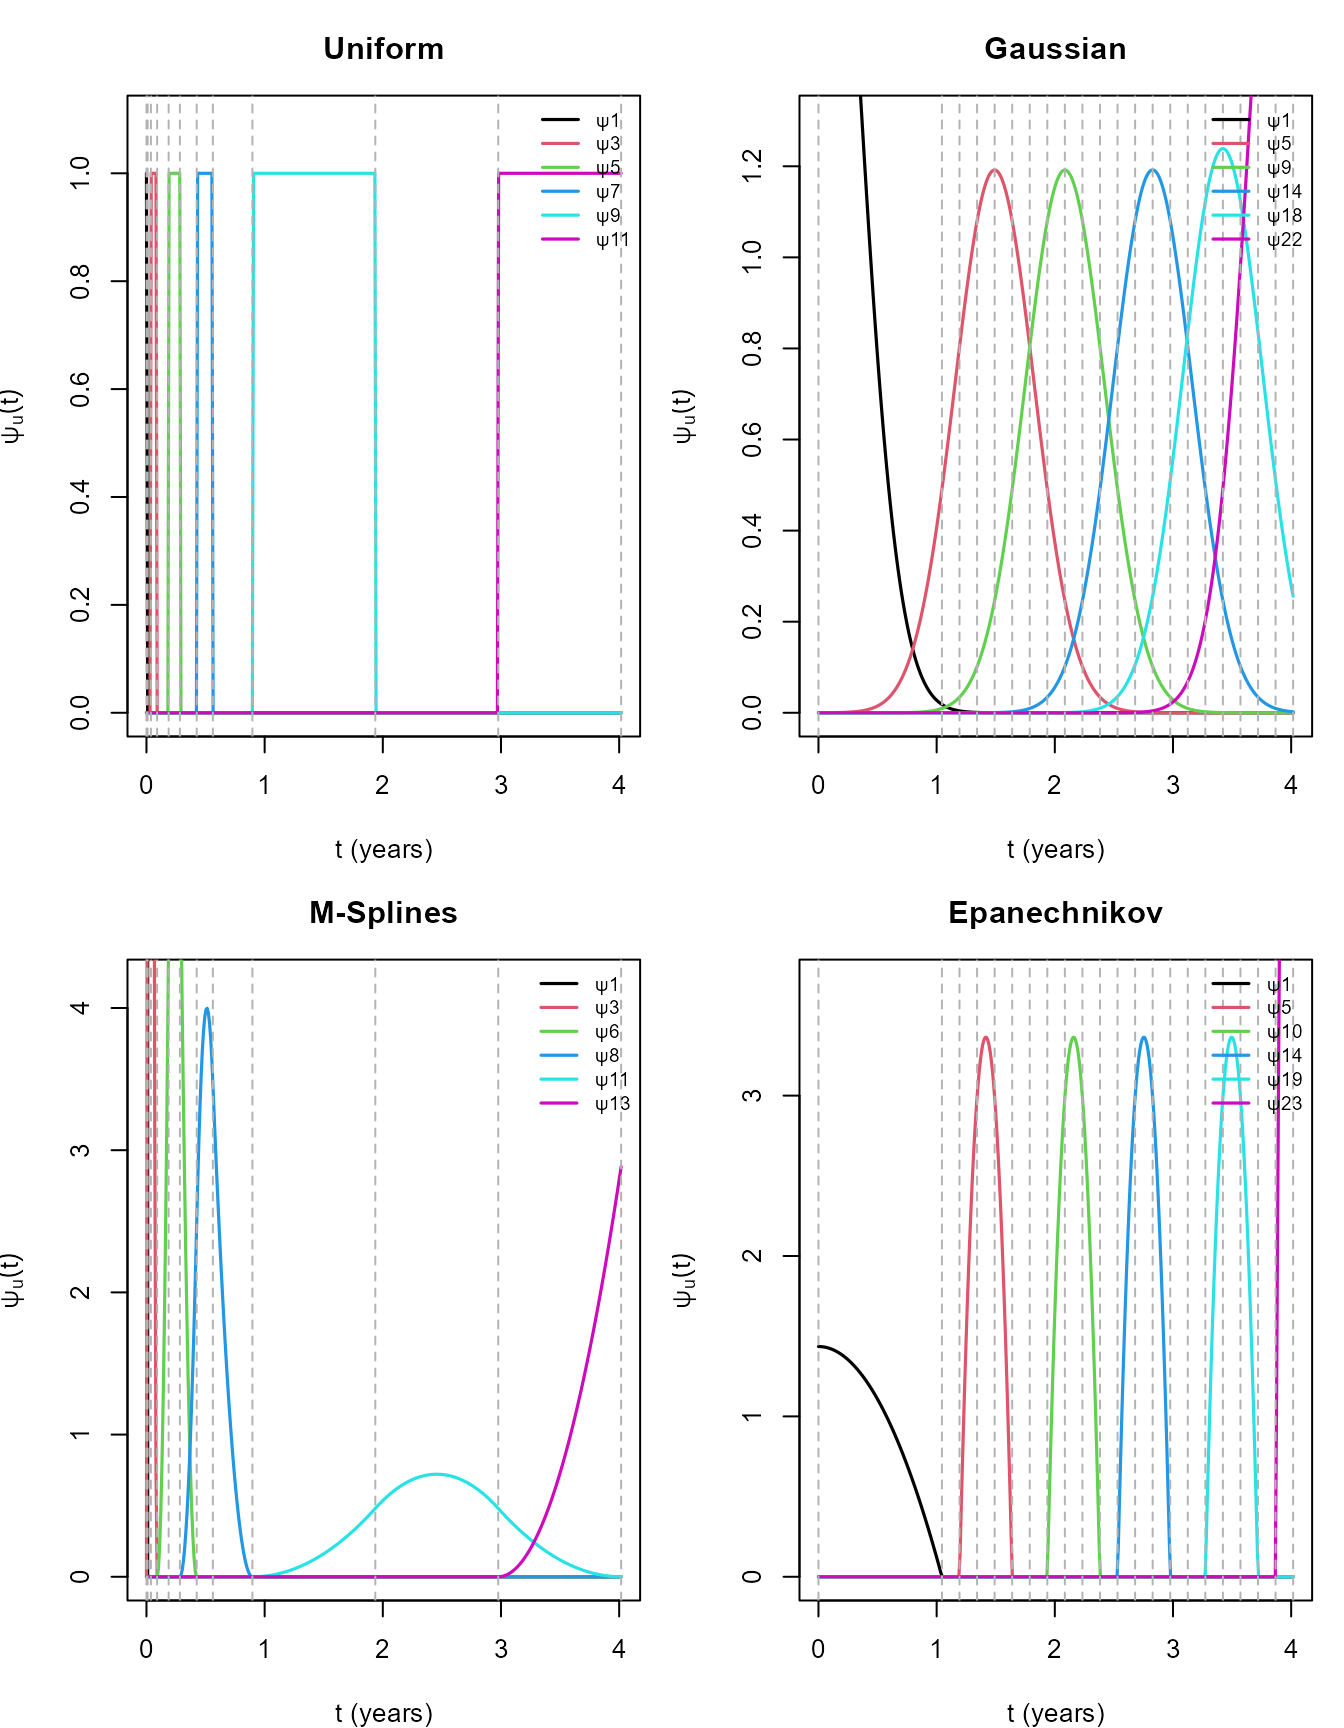
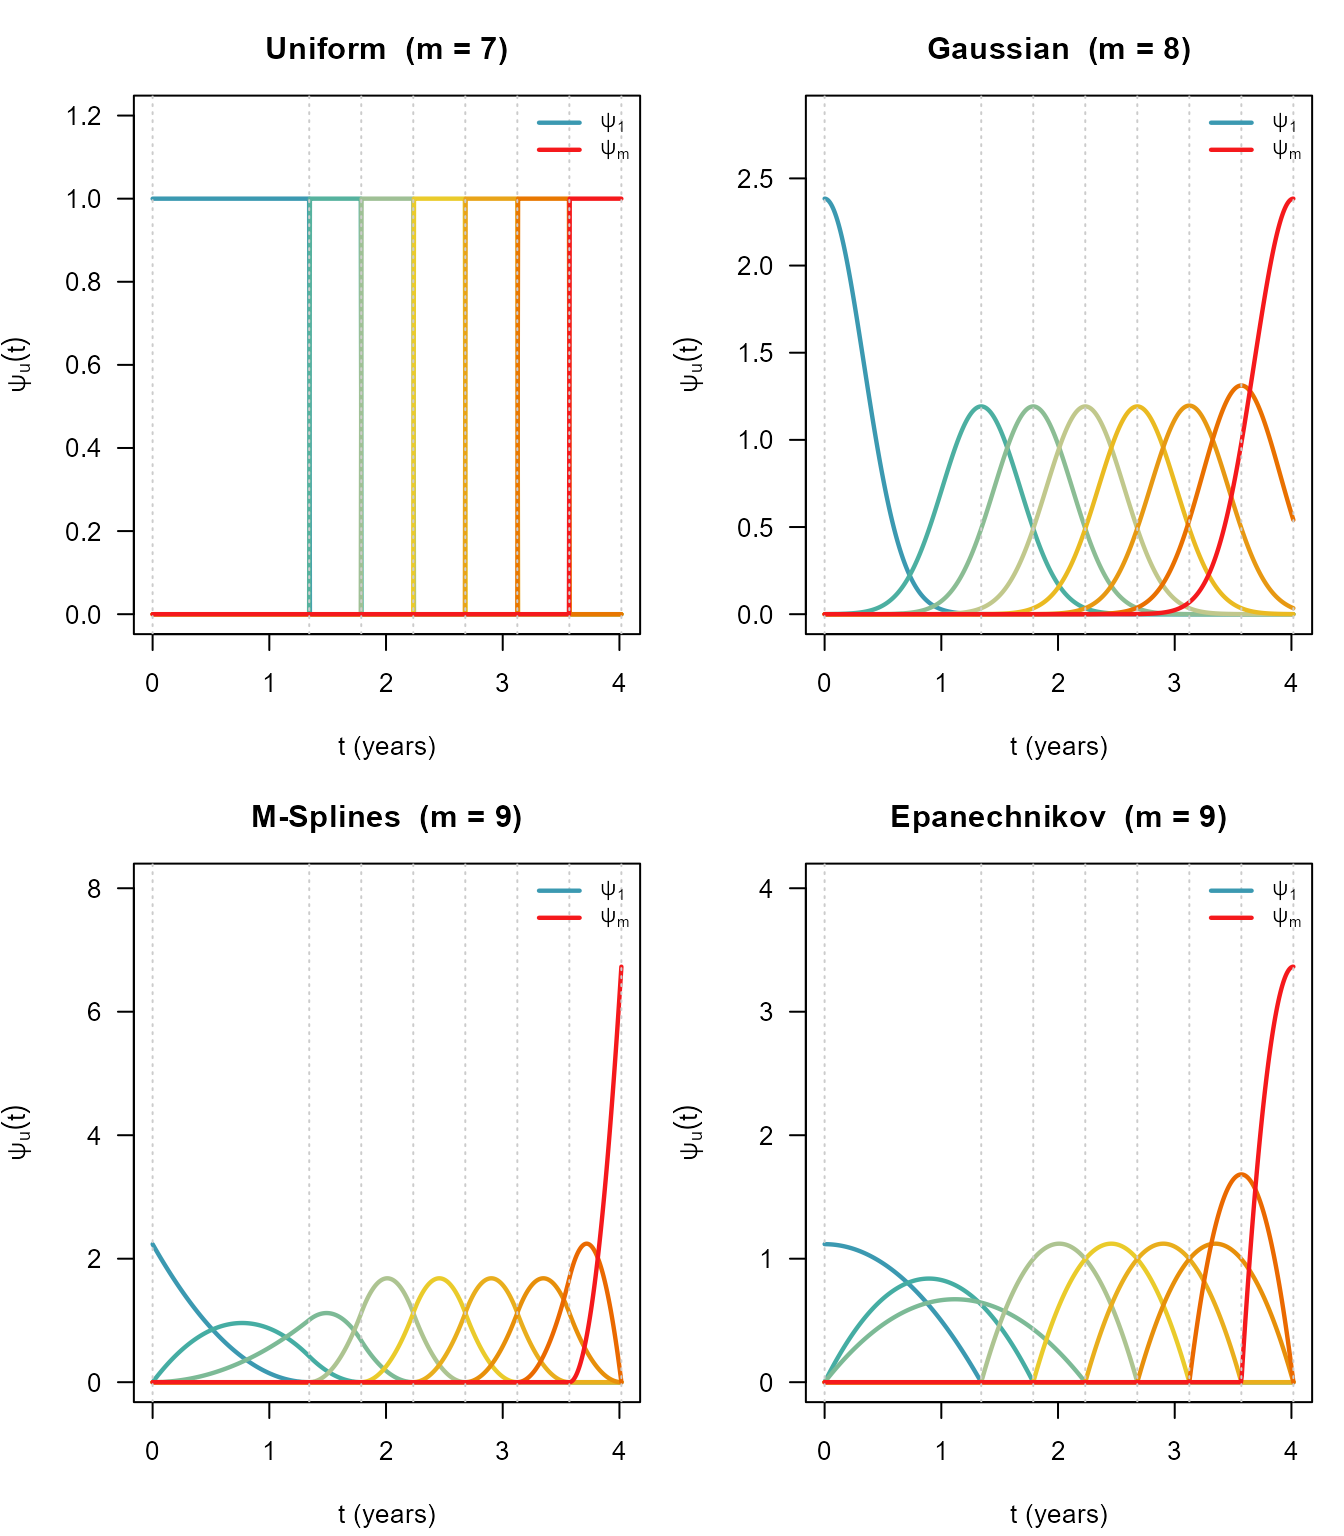
Minor changes in basis comparison

diff --git a/docs/articles/basis-comparison.html b/docs/articles/basis-comparison.html
@@ -253,8 +253,39 @@ support. Like M-splines, these use the augmented knot sequence
 evaluate
 <math display="inline" xmlns="http://www.w3.org/1998/Math/MathML"><semantics><mrow><msub><mi>ψ</mi><mi>u</mi></msub><mo stretchy="false" form="prefix">(</mo><mi>t</mi><mo stretchy="false" form="postfix">)</mo></mrow><annotation encoding="application/x-tex">\psi_u(t)</annotation></semantics></math>
 on a fine grid and plot each set of basis functions.</p>
+<p><code>n.knots = c(k_1, k_2)</code> places
+<math display="inline" xmlns="http://www.w3.org/1998/Math/MathML"><semantics><mrow><msub><mi>k</mi><mn>1</mn></msub><mo>+</mo><mn>1</mn></mrow><annotation encoding="application/x-tex">k_1 + 1</annotation></semantics></math>
+quantile-based knots over the lower <code>range.quant[2]</code> (90% by
+default) of the event times, plus
+<math display="inline" xmlns="http://www.w3.org/1998/Math/MathML"><semantics><mrow><msub><mi>k</mi><mn>2</mn></msub><mo>+</mo><mn>1</mn></mrow><annotation encoding="application/x-tex">k_2 + 1</annotation></semantics></math>
+equally spaced knots above that quantile —
+<math display="inline" xmlns="http://www.w3.org/1998/Math/MathML"><semantics><mrow><msub><mi>k</mi><mn>1</mn></msub><mo>+</mo><msub><mi>k</mi><mn>2</mn></msub><mo>+</mo><mn>2</mn></mrow><annotation encoding="application/x-tex">k_1 + k_2 + 2</annotation></semantics></math>
+knots in total. The defaults are <code>c(8, 2)</code> for
+<code>"uniform"</code> and <code>"msplines"</code> (12 knots,
+<math display="inline" xmlns="http://www.w3.org/1998/Math/MathML"><semantics><mrow><mi>m</mi><mo>=</mo><mn>11</mn></mrow><annotation encoding="application/x-tex">m = 11</annotation></semantics></math>
+and
+<math display="inline" xmlns="http://www.w3.org/1998/Math/MathML"><semantics><mn>13</mn><annotation encoding="application/x-tex">13</annotation></semantics></math>)
+and <code>c(0, 20)</code> for <code>"gaussian"</code> and
+<code>"epanechikov"</code> (22 knots,
+<math display="inline" xmlns="http://www.w3.org/1998/Math/MathML"><semantics><mrow><mi>m</mi><mo>=</mo><mn>22</mn></mrow><annotation encoding="application/x-tex">m = 22</annotation></semantics></math>
+and
+<math display="inline" xmlns="http://www.w3.org/1998/Math/MathML"><semantics><mn>23</mn><annotation encoding="application/x-tex">23</annotation></semantics></math>).</p>
+<p>The figure below deliberately uses far fewer:
+<code>n.knots = c(0, 6)</code>, i.e. 8 widely spaced knots and
+<math display="inline" xmlns="http://www.w3.org/1998/Math/MathML"><semantics><mrow><mi>m</mi><mo>=</mo><mn>7</mn></mrow><annotation encoding="application/x-tex">m = 7</annotation></semantics></math>–<math display="inline" xmlns="http://www.w3.org/1998/Math/MathML"><semantics><mn>9</mn><annotation encoding="application/x-tex">9</annotation></semantics></math>
+basis functions per panel. At the default resolution the curves overlap
+into a dense, unreadable thicket, and on this right-skewed dataset the
+quantile knots crowd so tightly near
+<math display="inline" xmlns="http://www.w3.org/1998/Math/MathML"><semantics><mrow><mi>t</mi><mo>=</mo><mn>0</mn></mrow><annotation encoding="application/x-tex">t = 0</annotation></semantics></math>
+that the first basis function spikes and flattens all the others. Fewer
+knots do not change the shape of an individual basis function — only how
+many there are and how wide each one is.</p>
 <p><img src="basis-comparison_files/figure-html/basis-vis-1.png" class="r-plt" alt="" width="100%" style="display: block; margin: auto;"></p>
-<p>Dashed vertical lines mark the internal knots
+<p>Colour runs with the basis index —
+<math display="inline" xmlns="http://www.w3.org/1998/Math/MathML"><semantics><msub><mi>ψ</mi><mn>1</mn></msub><annotation encoding="application/x-tex">\psi_1</annotation></semantics></math>
+(blue) is left-most in time,
+<math display="inline" xmlns="http://www.w3.org/1998/Math/MathML"><semantics><msub><mi>ψ</mi><mi>m</mi></msub><annotation encoding="application/x-tex">\psi_m</annotation></semantics></math>
+(red) right-most. Dotted vertical lines mark the knots
 <math display="inline" xmlns="http://www.w3.org/1998/Math/MathML"><semantics><mi mathvariant="bold-italic">𝜶</mi><annotation encoding="application/x-tex">\boldsymbol{\alpha}</annotation></semantics></math>.</p>
 <hr>
 </div>
@@ -269,13 +300,21 @@ recurrence,
 <math display="inline" xmlns="http://www.w3.org/1998/Math/MathML"><semantics><mrow><mi>n</mi><mo>=</mo><mn>300</mn></mrow><annotation encoding="application/x-tex">n = 300</annotation></semantics></math>,
 true baseline
 <math display="inline" xmlns="http://www.w3.org/1998/Math/MathML"><semantics><mrow><msub><mi>h</mi><mn>0</mn></msub><mo stretchy="false" form="prefix">(</mo><mi>t</mi><mo stretchy="false" form="postfix">)</mo><mo>=</mo><msup><mi>t</mi><mrow><mi>−</mi><mn>1</mn><mi>/</mi><mn>2</mn></mrow></msup></mrow><annotation encoding="application/x-tex">h_0(t) = t^{-1/2}</annotation></semantics></math>).</p>
+<p>All four fits share the same knot specification,
+<code>n.knots = c(8, 2)</code>, so that the comparison is between
+<em>basis shapes</em> and not between different numbers of parameters.
+(The defaults differ by basis: <code>"uniform"</code> and
+<code>"msplines"</code> use <code>c(8, 2)</code>, while
+<code>"gaussian"</code> and <code>"epanechikov"</code> use
+<code>c(0, 20)</code>.)</p>
 <div class="sourceCode" id="cb1"><pre class="downlit sourceCode r">
 <code class="sourceCode R"><span><span class="fu"><a href="https://rdrr.io/r/utils/data.html" class="external-link">data</a></span><span class="op">(</span><span class="va">melanoma</span><span class="op">)</span></span>
-<span><span class="va">formula_mel</span> <span class="op">&lt;-</span> <span class="fu"><a href="https://rdrr.io/pkg/survival/man/Surv.html" class="external-link">Surv</a></span><span class="op">(</span><span class="va">t_L</span>, <span class="va">t_R</span>, type <span class="op">=</span> <span class="st">"interval2"</span><span class="op">)</span> <span class="op">~</span></span>
+<span><span class="va">formula_mel</span> <span class="op">&lt;-</span> <span class="fu">Surv</span><span class="op">(</span><span class="va">t_L</span>, <span class="va">t_R</span>, type <span class="op">=</span> <span class="st">"interval2"</span><span class="op">)</span> <span class="op">~</span></span>
 <span>  <span class="va">Arm</span> <span class="op">+</span> <span class="va">Leg</span> <span class="op">+</span> <span class="va">Trunk</span> <span class="op">+</span> <span class="va">mm1to2</span> <span class="op">+</span> <span class="va">mm2to4</span> <span class="op">+</span> <span class="va">mm4plus</span> <span class="op">+</span> <span class="va">Female</span> <span class="op">+</span> <span class="va">Age_centred</span></span>
 <span><span class="va">n_obs</span> <span class="op">&lt;-</span> <span class="fu"><a href="https://rdrr.io/r/base/sum.html" class="external-link">sum</a></span><span class="op">(</span><span class="va">melanoma</span><span class="op">$</span><span class="va">t_L</span> <span class="op">==</span> <span class="va">melanoma</span><span class="op">$</span><span class="va">t_R</span> <span class="op">&amp;</span> <span class="fu"><a href="https://rdrr.io/r/base/is.finite.html" class="external-link">is.finite</a></span><span class="op">(</span><span class="va">melanoma</span><span class="op">$</span><span class="va">t_R</span><span class="op">)</span><span class="op">)</span></span>
 <span><span class="va">base_ctrl</span> <span class="op">&lt;-</span> <span class="fu"><a href="https://rdrr.io/r/base/list.html" class="external-link">list</a></span><span class="op">(</span>n.obs <span class="op">=</span> <span class="va">n_obs</span>,</span>
 <span>                  smooth <span class="op">=</span> <span class="fl">0</span>,</span>
+<span>                  n.knots <span class="op">=</span> <span class="fu"><a href="https://rdrr.io/r/base/c.html" class="external-link">c</a></span><span class="op">(</span><span class="fl">8</span>, <span class="fl">2</span><span class="op">)</span>,</span>
 <span>                  max.iter <span class="op">=</span> <span class="fu"><a href="https://rdrr.io/r/base/c.html" class="external-link">c</a></span><span class="op">(</span><span class="fl">40</span>, <span class="fl">2e4</span>, <span class="fl">5e4</span><span class="op">)</span><span class="op">)</span></span></code></pre></div>
 <div class="sourceCode" id="cb2"><pre class="downlit sourceCode r">
 <code class="sourceCode R"><span><span class="va">fit_u</span> <span class="op">&lt;-</span> <span class="fu"><a href="../reference/coxph_mpl.html">coxph_mpl</a></span><span class="op">(</span><span class="va">formula_mel</span>, data <span class="op">=</span> <span class="va">melanoma</span>,</span>
@@ -305,24 +344,32 @@ true baseline
 <span><span class="op">)</span></span>
 <span><span class="fu"><a href="https://rdrr.io/r/base/Round.html" class="external-link">round</a></span><span class="op">(</span><span class="va">coef_mat</span>, <span class="fl">3</span><span class="op">)</span></span>
 <span><span class="co">#&gt;             Uniform Gaussian M-Splines Epanechnikov</span></span>
-<span><span class="co">#&gt; Arm          -0.596   -0.636    -0.562       -0.632</span></span>
-<span><span class="co">#&gt; Leg          -0.112   -0.118    -0.087       -0.097</span></span>
-<span><span class="co">#&gt; Trunk        -0.241   -0.266    -0.239       -0.278</span></span>
-<span><span class="co">#&gt; mm1to2        0.036    0.023     0.029        0.003</span></span>
-<span><span class="co">#&gt; mm2to4        0.614    0.734     0.625        0.795</span></span>
-<span><span class="co">#&gt; mm4plus       1.472    1.850     1.436        2.037</span></span>
-<span><span class="co">#&gt; Female       -0.090   -0.110    -0.089       -0.121</span></span>
-<span><span class="co">#&gt; Age_centred   0.117    0.132     0.111        0.138</span></span></code></pre></div>
+<span><span class="co">#&gt; Arm          -0.596   -0.583    -0.562       -0.620</span></span>
+<span><span class="co">#&gt; Leg          -0.112   -0.085    -0.087       -0.111</span></span>
+<span><span class="co">#&gt; Trunk        -0.241   -0.243    -0.239       -0.252</span></span>
+<span><span class="co">#&gt; mm1to2        0.036    0.053     0.029        0.056</span></span>
+<span><span class="co">#&gt; mm2to4        0.614    0.672     0.625        0.642</span></span>
+<span><span class="co">#&gt; mm4plus       1.472    1.468     1.436        1.454</span></span>
+<span><span class="co">#&gt; Female       -0.090   -0.077    -0.089       -0.088</span></span>
+<span><span class="co">#&gt; Age_centred   0.117    0.114     0.111        0.119</span></span></code></pre></div>
 </div>
 <div class="section level3">
 <h3 id="estimated-baseline-hazards">Estimated baseline hazards<a class="anchor" aria-label="anchor" href="#estimated-baseline-hazards"></a>
 </h3>
 <p><img src="basis-comparison_files/figure-html/baseline-plot-1.png" class="r-plt" alt="" width="100%" style="display: block; margin: auto;"></p>
-<p>All four bases agree on the broad shape (a hazard that is high early
-and decays over time) and on the implied survival curve. The smooth
-bases (Gaussian, M-Splines, Epanechnikov) produce continuous estimates;
-the uniform basis introduces visible step artefacts that diminish with
-more knots.</p>
+<p>All four bases recover the decreasing shape of the true Weibull
+baseline
+<math display="inline" xmlns="http://www.w3.org/1998/Math/MathML"><semantics><mrow><msub><mi>h</mi><mn>0</mn></msub><mo stretchy="false" form="prefix">(</mo><mi>t</mi><mo stretchy="false" form="postfix">)</mo><mo>=</mo><msup><mi>t</mi><mrow><mi>−</mi><mn>1</mn><mi>/</mi><mn>2</mn></mrow></msup></mrow><annotation encoding="application/x-tex">h_0(t) = t^{-1/2}</annotation></semantics></math>
+(dashed), and the four estimates are almost indistinguishable from one
+another — though all four sit above the true level over this range, so
+the fitted survival curves fall below the true
+<math display="inline" xmlns="http://www.w3.org/1998/Math/MathML"><semantics><msub><mi>S</mi><mn>0</mn></msub><annotation encoding="application/x-tex">S_0</annotation></semantics></math>.
+The uniform basis shows the expected step artefacts; the smooth bases
+produce continuous estimates but, with <code>smooth = 0</code> (no
+roughness penalty), they oscillate around the truth — the log scale
+makes this visible. Penalised fits (<code>smooth &gt; 0</code>, or
+<code>smooth.per = TRUE</code> for automatic selection) damp these
+oscillations.</p>
 <p>Note that these are predictions at the <em>mean</em> covariate
 vector, so each curve estimates
 <math display="inline" xmlns="http://www.w3.org/1998/Math/MathML"><semantics><mrow><msub><mi>h</mi><mn>0</mn></msub><mo stretchy="false" form="prefix">(</mo><mi>t</mi><mo stretchy="false" form="postfix">)</mo><mrow><mi mathvariant="normal">exp</mi><mo></mo></mrow><mo stretchy="false" form="prefix">(</mo><msup><mover><mi mathvariant="bold-italic">𝒙</mi><mo accent="true">‾</mo></mover><mi>T</mi></msup><mi mathvariant="bold-italic">𝜷</mi><mo stretchy="false" form="postfix">)</mo></mrow><annotation encoding="application/x-tex">h_0(t)\exp(\bar{\mathbf{x}}^T\boldsymbol{\beta})</annotation></semantics></math>
